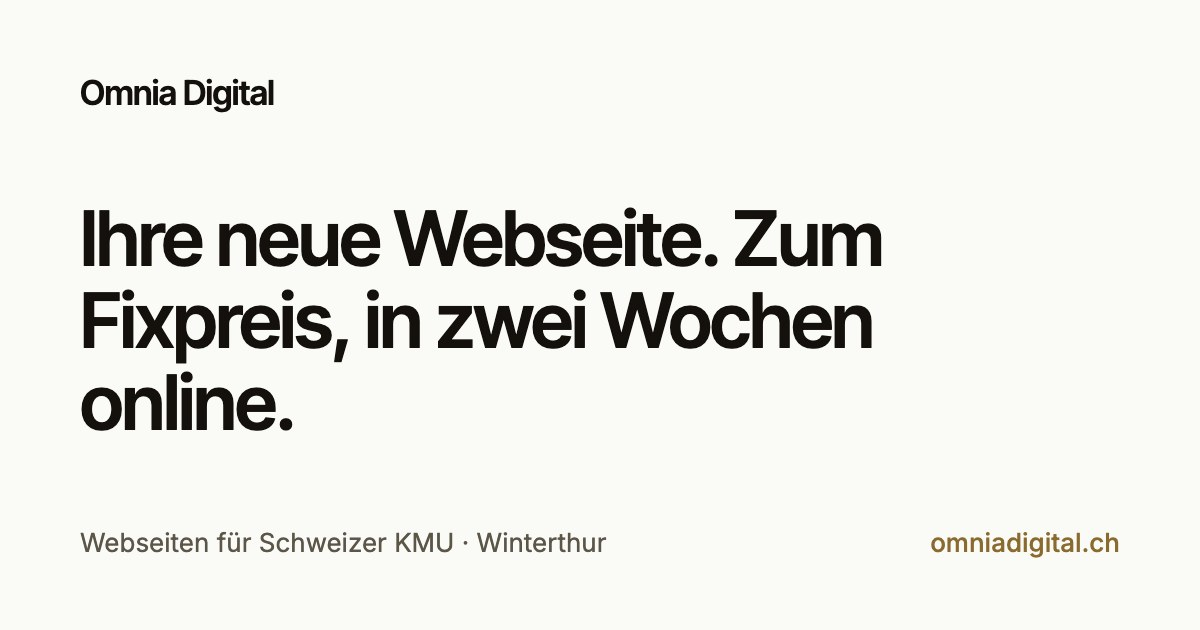
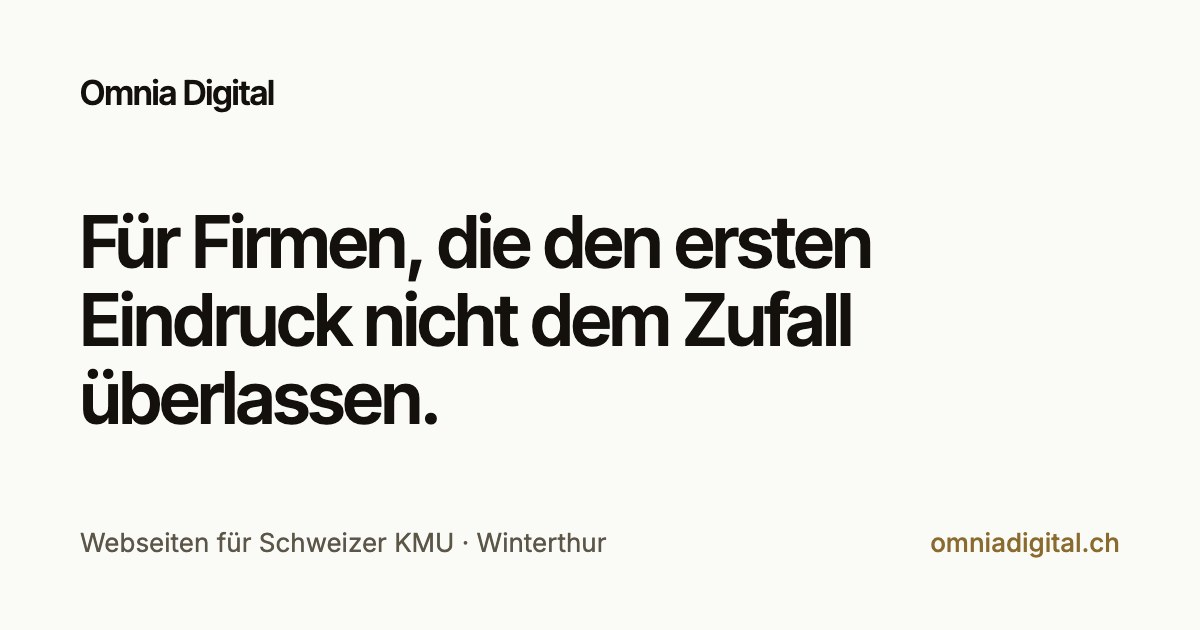
Rewrite hero headline for a brand-led tone
- "Für Firmen, die den ersten Eindruck nicht dem Zufall überlassen."
- Subline now carries the offer and the direct contact instead of repeating the price
- Regenerate the Open Graph image with the new headline

Changed region(s): [[0.0617, 0.3317, 0.74, 0.6937]]

diff --git a/src/components/Hero.jsx b/src/components/Hero.jsx
@@ -13,15 +13,14 @@ export default function Hero() {
         <div style={{ maxWidth: 900 }}>
           <h1
             className="font-display"
-            style={{ fontSize: 'clamp(2.5rem, 6vw, 5rem)', lineHeight: 1.1, color: 'var(--color-text)', marginBottom: 32, textWrap: 'balance' }}
+            style={{ fontSize: 'clamp(2.25rem, 5.4vw, 4.5rem)', lineHeight: 1.1, color: 'var(--color-text)', marginBottom: 32, textWrap: 'balance' }}
           >
-            Ihre neue Webseite. Zum Fixpreis, in zwei Wochen online.
+            Für Firmen, die den ersten Eindruck nicht dem Zufall überlassen.
           </h1>
 
           <p className="lead" style={{ fontSize: 'clamp(1.125rem, 1.6vw, 1.375rem)', maxWidth: 640, marginBottom: 48 }}>
-            Wir entwerfen und programmieren Webseiten für Schweizer Unternehmen. Den Preis und den
-            Termin kennen Sie vor Projektstart, und Sie sprechen immer mit den zwei Leuten, die Ihre
-            Seite bauen.
+            Wir entwerfen und programmieren Webseiten für Schweizer Unternehmen. Vom ersten Gespräch
+            bis zum Launch sprechen Sie mit den zwei Leuten, die Ihre Seite bauen.
           </p>
 
           <div className="flex flex-col sm:flex-row items-start sm:items-center gap-6 sm:gap-10">
